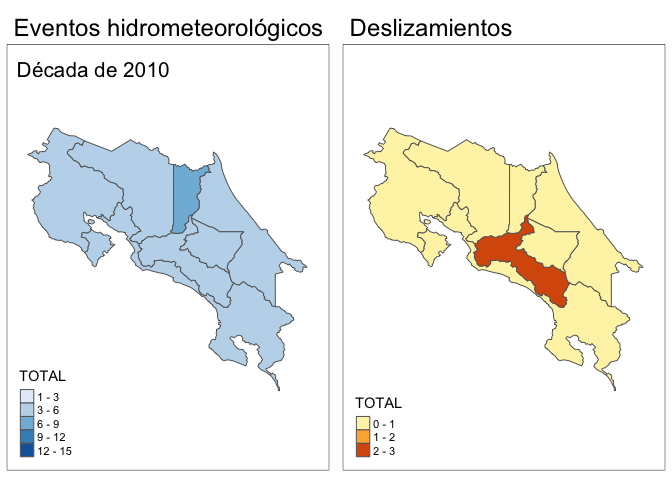
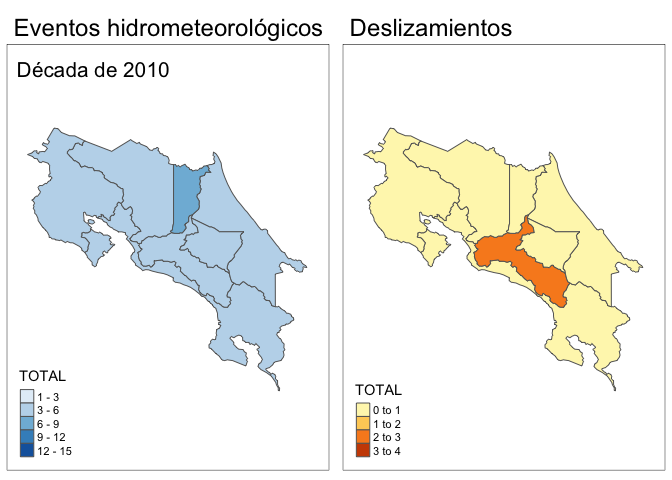
Actualizaciones de mapas

Changed region(s): [[0.6875, 0.4688, 0.8438, 0.6562], [0.5312, 0.7812, 0.5938, 0.9688]]

diff --git a/AnalisisDesastresCR.md b/AnalisisDesastresCR.md
@@ -628,10 +628,10 @@ funMapasDec <- function(dec) {
                                     DECADA == dec),
                          bbox = bbox) +
       tm_polygons(col = "TOTAL",
+                  palette = "YlOrBr",
                   style = "fixed",
-                  breaks = c(0, 1, 2, 3)) +
-      tm_layout(main.title = "Deslizamientos",
-                legend.format=list(fun=function(x) formatC(x, digits=0, format="d"), text.separator = "-"))
+                  breaks = c(0, 1, 2, 3, 4)) +
+      tm_layout(main.title = "Deslizamientos")
     
     tmap_arrange(tm_hidro, tm_deliz)
   } else {
